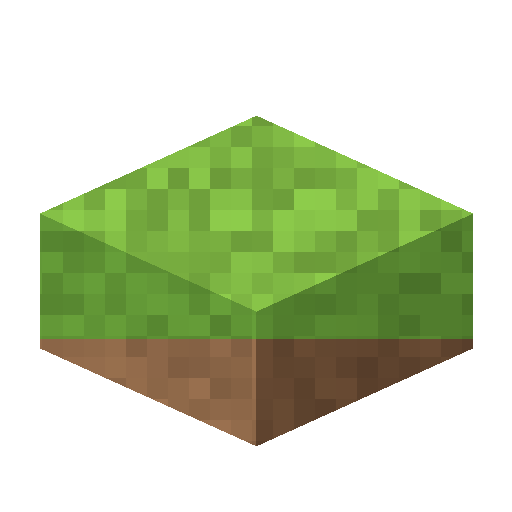
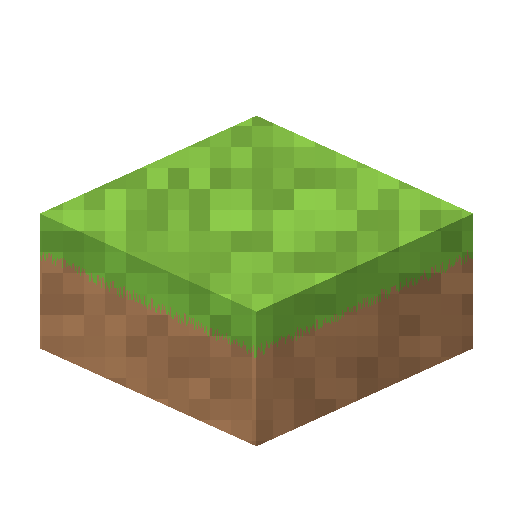
Revisão dos ícones: iOS opaco, maskable no círculo seguro e bloco de verdade
Três coisas erradas, todas só visíveis no aparelho do jogador:

- o apple-touch-icon apontava para o icon-192.png, que é transparente. O iOS
  não respeita alpha em ícone de tela de início: aquilo virava um quadrado
  preto atrás do bloco. Agora existe um apple-touch-icon-180.png com fundo de
  céu e todo pixel opaco;
- a faixa de grama das laterais ocupava metade da face, então o ícone lia como
  caixa verde. Agora são 30% da face com a borda irregular, terra embaixo e a
  face da direita mais escura (a luz vem da esquerda) — igual ao bloco do jogo;
- o favicon tinha ruído de pixel, que em 16 px vira sujeira: virou chapado.

O maskable foi remexido para caber no círculo seguro de 80% do Android (o canto
de baixo das laterais ficava fora) e o gerador passou a exportar renderIcon e
ICON_TARGETS sem rodar nada ao ser importado.

Para isso os testes deixaram de confiar no tamanho do arquivo: um decodificador
de PNG de ~50 linhas (tests/helpers/png.mjs) deixa tests/icons.test.mjs olhar
os pixels — nada fora do círculo seguro, nenhum alpha no ícone do iOS, no máximo
6 cores no favicon, todo ícone com grama em cima e terra embaixo, e a pasta
icons/ com exatamente os arquivos que o gerador escreve.

CACHE_VERSION v3 (a casca ganhou o ícone do iOS); o teste do worker agora tira
o nome do cache do próprio arquivo.

Testes: 533 -> 541.

Changed region(s): [[0.0625, 0.5, 0.9375, 0.6875]]

diff --git a/index.html b/index.html
@@ -10,7 +10,7 @@
 <meta name="apple-mobile-web-app-capable" content="yes">
 <meta name="apple-mobile-web-app-title" content="Voxel">
 <link rel="icon" href="icons/favicon-32.png" sizes="32x32" type="image/png">
-<link rel="apple-touch-icon" href="icons/icon-192.png">
+<link rel="apple-touch-icon" href="icons/apple-touch-icon-180.png">
 <link rel="stylesheet" href="styles.css?v=0e660a37d5">
 <link rel="stylesheet" href="inventory.css?v=3c73d92add">
 <!-- importmap:start (gerado por tools/stamp-importmap.mjs; não editar à mão) -->

diff --git a/service-worker.js b/service-worker.js
@@ -24,7 +24,7 @@
 // versões antigas do cache.
 
 const CACHE_PREFIX = 'voxel-sandbox';
-const CACHE_VERSION = 'v2';
+const CACHE_VERSION = 'v3';
 const CACHE_NAME = `${CACHE_PREFIX}-${CACHE_VERSION}`;
 const OFFLINE_DOCUMENT = './index.html';
 
@@ -40,6 +40,7 @@ const MINIMUM_SHELL = [
     './icons/icon-512.png',
     './icons/icon-maskable-512.png',
     './icons/favicon-32.png',
+    './icons/apple-touch-icon-180.png',
     './menu-panorama.svg',
     './world-menu.js',
     './game.js',

diff --git a/MELHORIA-20261104-icones-do-app.md b/MELHORIA-20261104-icones-do-app.md
@@ -1,0 +1,74 @@
+# MELHORIA: revisão dos ícones do app
+
+- **Data:** 04/11/2026 (terceira leva do PWA; antes, [instalar + abrir offline](MELHORIA-20261104-pwa.md) e [offline de verdade](MELHORIA-20261104-pwa-offline-de-verdade.md))
+- **Status:** implementado
+- **Arquivos:** `tools/make-icons.mjs` (desenho reescrito), `icons/` (5 PNGs),
+  `index.html` (link do iOS), `service-worker.js` (casca mínima),
+  `tests/icons.test.mjs` (novo), `tests/helpers/png.mjs` (novo), `README.md`
+
+## O que estava errado
+
+Os ícones existiam e tinham o tamanho certo — o que faltava era olhar para o que
+cada tela faz com eles:
+
+1. **O iPhone pintava um quadrado preto atrás do bloco.** O `apple-touch-icon`
+   apontava para o `icon-192.png`, que é **transparente**. O iOS não respeita
+   alpha em ícone de tela de início: pixel transparente vira **preto**.
+2. **A lateral do bloco era quase toda grama.** A faixa verde das faces laterais
+   ocupava metade do bloco; um bloco de grama tem uma faixa fina em cima e terra
+   embaixo. O ícone lia como "caixa verde", não como bloco.
+3. **O favicon tinha textura fina.** Em 16–32 px o ruído de pixel vira sujeira.
+4. **O maskable estava tímido** e ninguém conferia o círculo seguro de verdade: a
+   única checagem era "tem 512 de lado".
+
+## O que mudou
+
+### O desenho (`tools/make-icons.mjs`)
+
+- **Faixa de grama de verdade** nas laterais: 30% da face (com a borda irregular,
+  que é o que dá a cara do bloco) e terra embaixo, com a face da direita mais
+  escura — a luz vem da esquerda.
+- **Três formatos, porque cada tela recorta de um jeito:**
+  | Arquivo | Lado | Fundo | Por quê |
+  | --- | --- | --- | --- |
+  | `icon-192.png` / `icon-512.png` | 192 / 512 | transparente | janela, dock e lista de apps do desktop |
+  | `icon-maskable-512.png` | 512 | céu | Android recorta em círculo/gota: o bloco fica dentro do círculo de 80% |
+  | `apple-touch-icon-180.png` | 180 | céu, **opaco** | iOS pinta transparência de preto e arredonda os cantos |
+  | `favicon-32.png` | 32 | transparente, **chapado** | 16 px não perdoa textura |
+- O gerador virou importável (`renderIcon`, `ICON_TARGETS`) sem rodar nada ao
+  ser importado: dá para testar o desenho, não só o arquivo.
+
+### Os testes olham os pixels (`tests/icons.test.mjs` + `tests/helpers/png.mjs`)
+
+Um decodificador de PNG de ~50 linhas (zlib da biblioteca padrão; o projeto só
+gera RGBA 8 bits com filtro 0) permite conferir o que os arquivos realmente
+mostram:
+
+- a pasta `icons/` tem **exatamente** os arquivos que o gerador escreve (nada de
+  PNG editado à mão envelhecendo ao lado);
+- cada ícone do manifest tem o tamanho anunciado;
+- **maskable**: fora do círculo seguro de 80% não existe nada além do céu — é o
+  teste que pega o bloco fatiado no launcher antes do jogador pegar;
+- **maskable**: nenhum pixel transparente (buraco no recorte);
+- **iOS**: 180×180, **todo pixel opaco** e o bloco dentro do miolo arredondado;
+- todo ícone mostra o bloco: verde em cima, terra embaixo;
+- **favicon**: no máximo 6 cores (é chapado) e o bloco cabe no quadro;
+- o gerador é determinístico (mesmo desenho toda vez).
+
+## Validação
+
+```bash
+node tools/make-icons.mjs   # regera os 5 PNGs
+npm test                    # 541 testes
+npm run check               # sintaxe + importmap em dia
+```
+
+**Conferir no aparelho** (o sandbox não abre navegador): no Android, instalar e
+ver o ícone no launcher nos dois formatos de recorte (círculo e quadrado);
+no iPhone, "Adicionar à Tela de Início" e confirmar que **não** aparece fundo
+preto; na aba do navegador, o favicon em 16 px.
+
+## O que sobrou do PWA
+
+- **Roteiro de teste em navegador real** (instalação, offline e atualização num
+  Chrome e num iPhone de verdade).

diff --git a/README.md b/README.md
@@ -31,7 +31,7 @@ python3 -m http.server 8000 --bind 0.0.0.0
 ## Testes e validação
 
 ```bash
-npm test           # 533 testes de módulos puros (node --test)
+npm test           # 541 testes de módulos puros (node --test)
 npm run check      # sintaxe de todos os módulos + importmap em dia
 npm run stamp      # regrava os hashes de cache no index.html
 ```
@@ -179,7 +179,7 @@ cinza do menu) que aparece quando há como instalar:
 | Service worker | `service-worker.js` | guarda **o jogo inteiro** na instalação (a lista sai do `index.html`) |
 | Registro | `world-pwa.js` | registra só em `http(s)`; `?sw=0` desliga |
 | Botão de instalar | `world-install-prompt.js` | decide quando mostrar e chama o convite do navegador (testado sem DOM) |
-| Ícones | `icons/` | gerados por `tools/make-icons.mjs` (PNG escrito na mão, sem dependência) |
+| Ícones | `icons/` | gerados por `tools/make-icons.mjs` (PNG escrito na mão, sem dependência): bloco transparente para desktop, maskable com fundo para o Android e um opaco de 180 para o iOS |
 
 **O que guardar vem do próprio `index.html`.** Na instalação o worker busca a
 página e lê duas coisas: o importmap (que já lista **todos** os módulos com o
